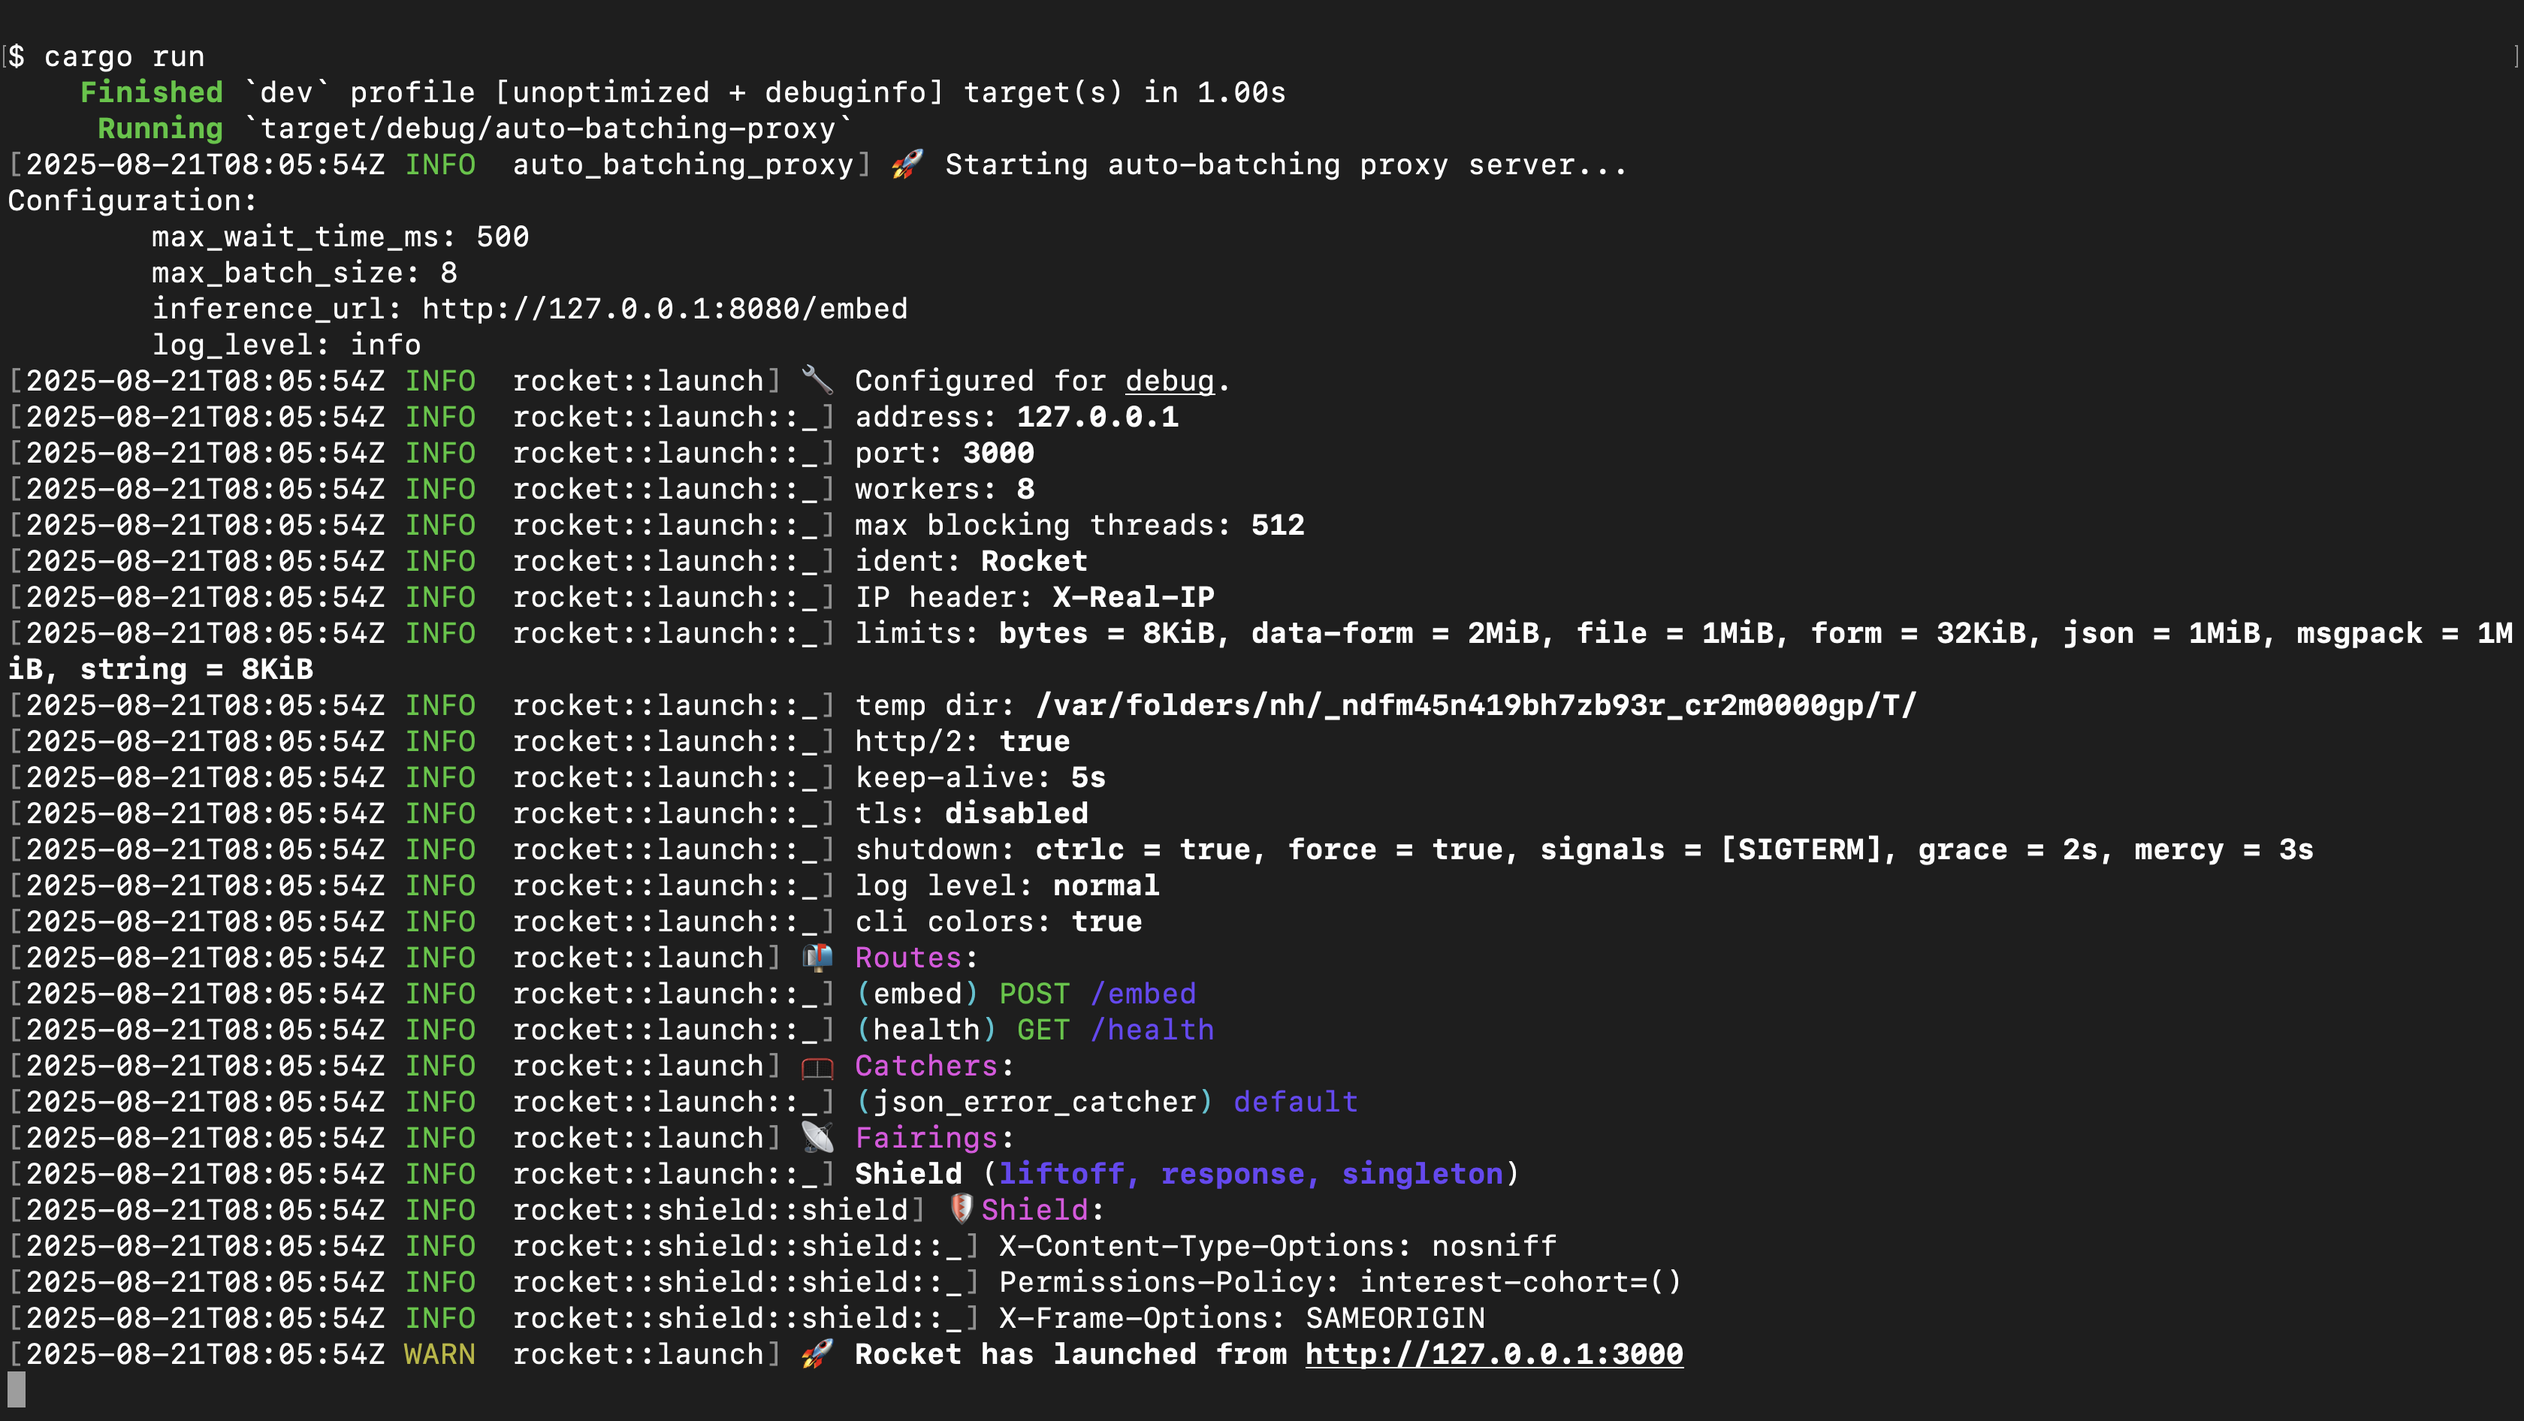
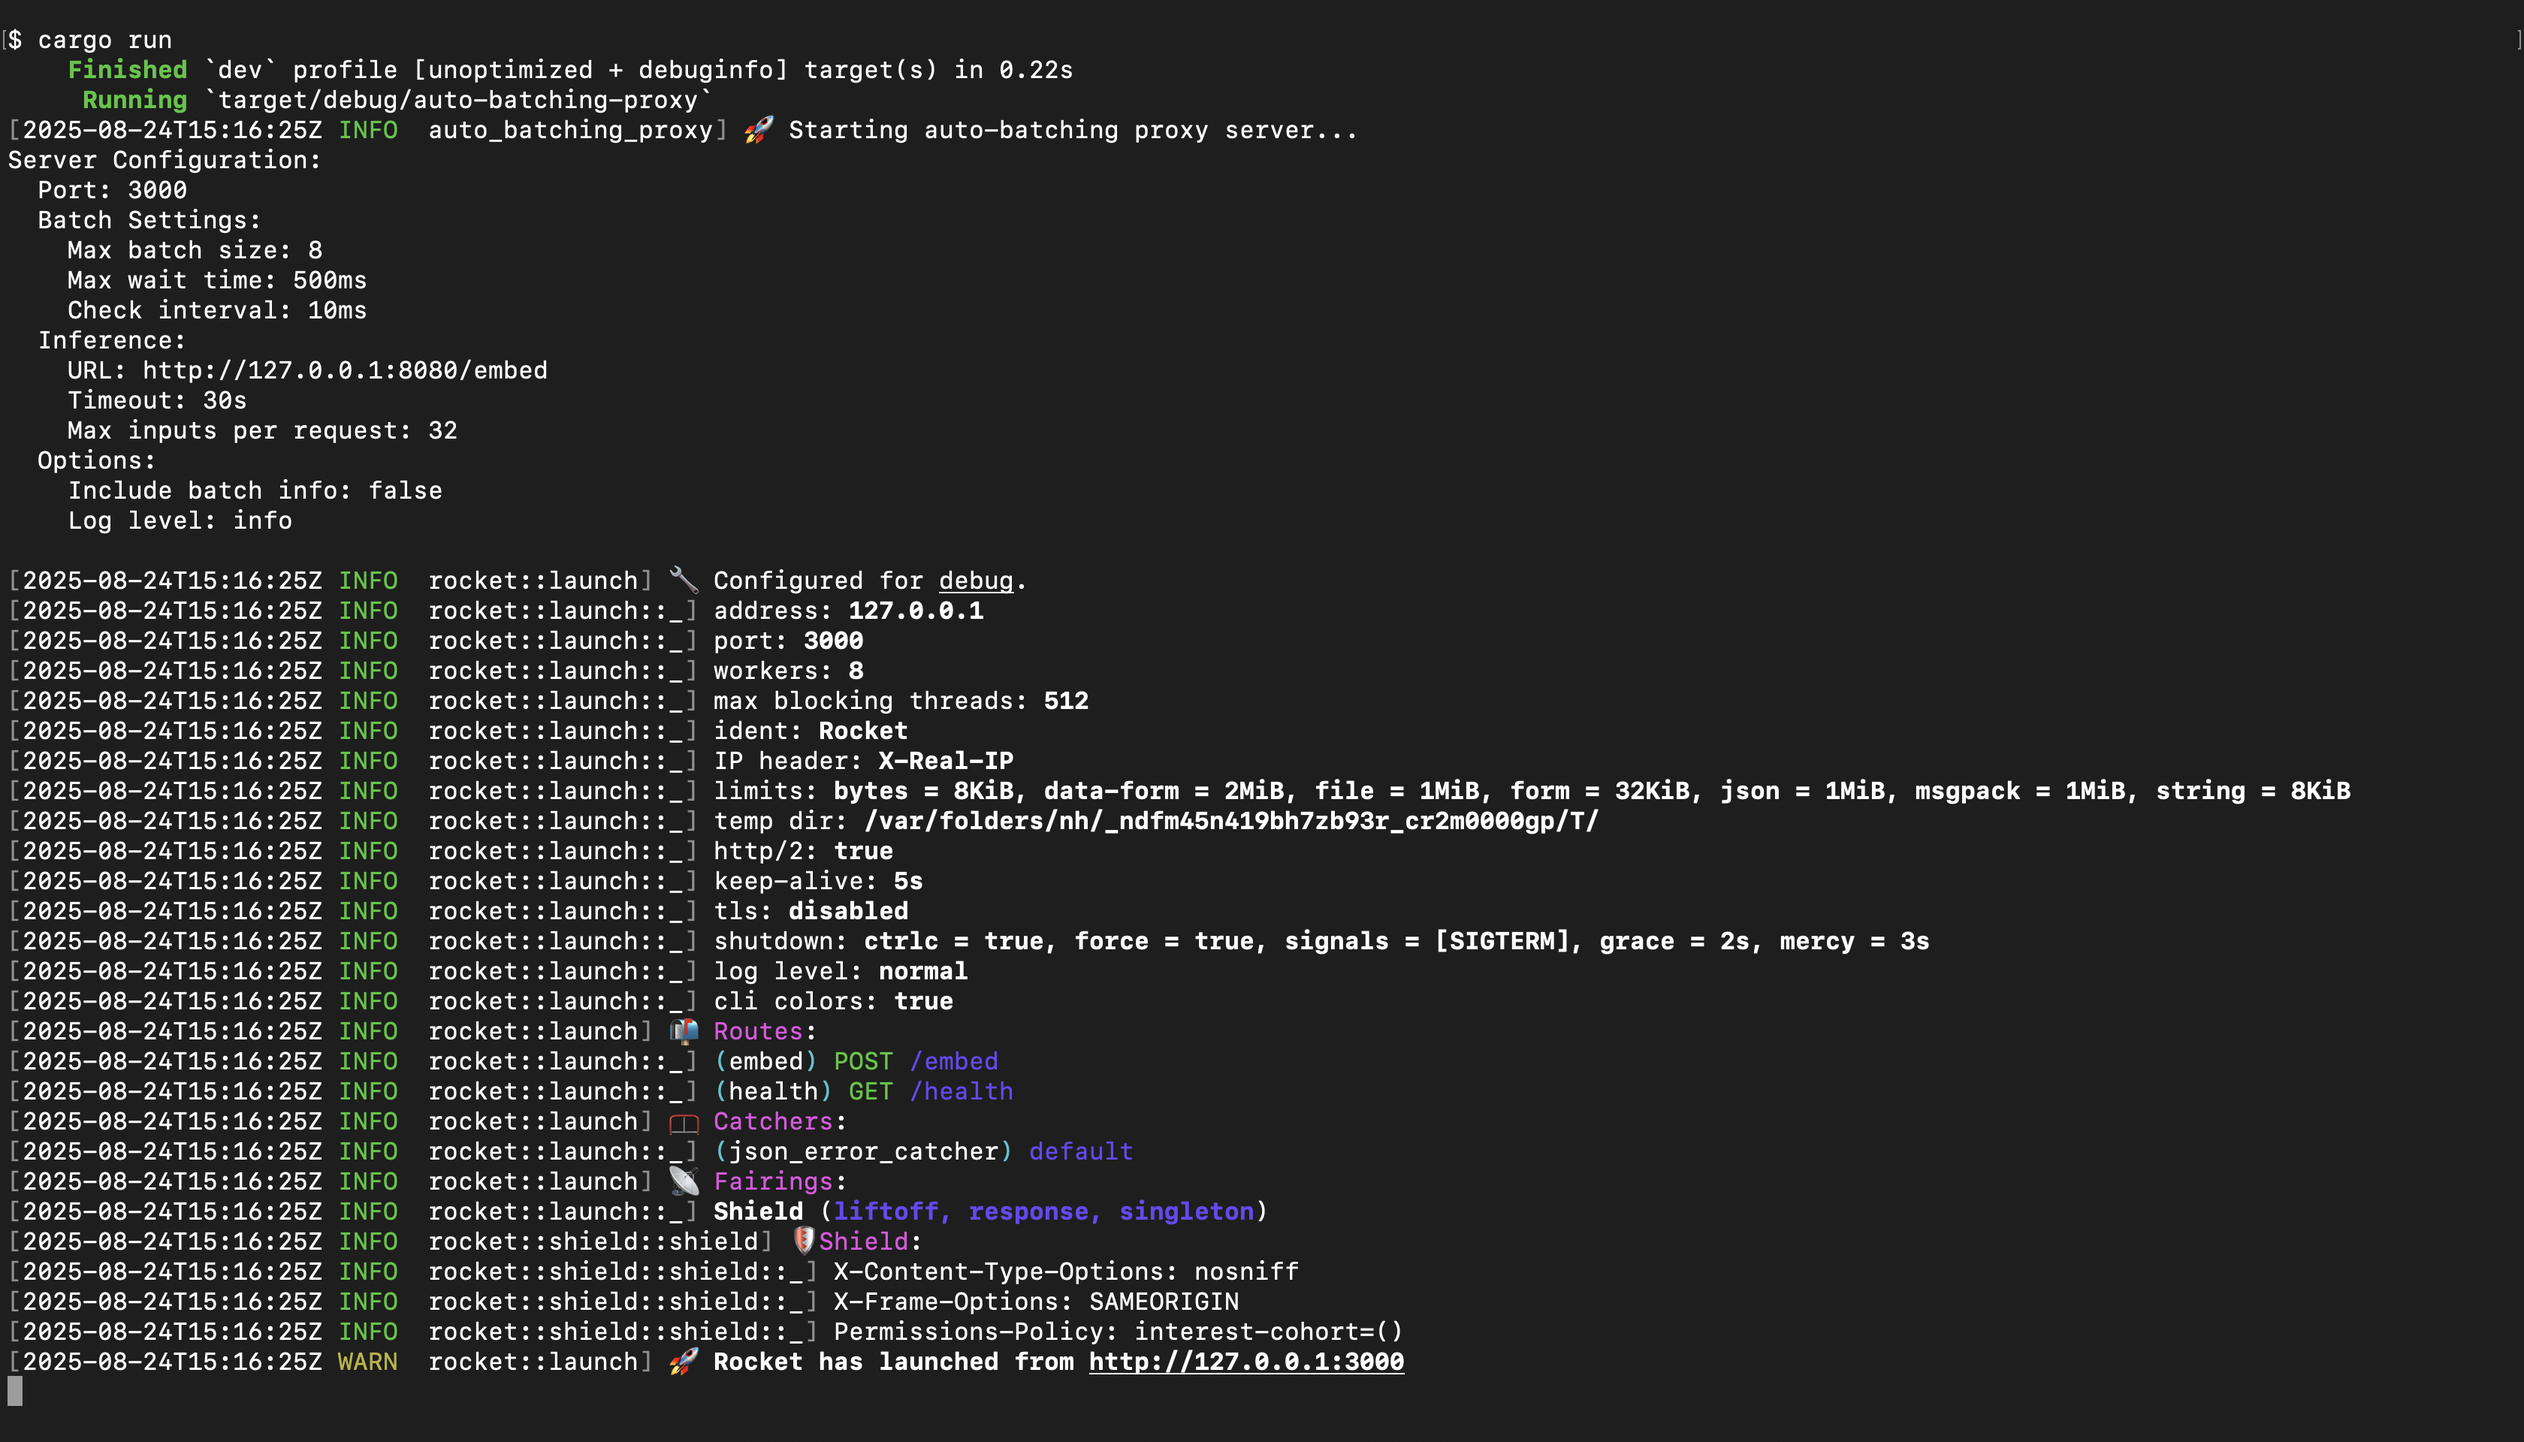
Update logs & screenshots

Changed region(s): [[0.0, 0.0312, 1.0, 0.9979], [0.2812, 0.1871, 0.3438, 0.2183], [0.5, 0.7484, 0.5312, 0.7796]]

diff --git a/src/config.rs b/src/config.rs
@@ -1,6 +1,7 @@
 use clap::Parser;
 use serde::{Deserialize, Serialize};
 use std::time::Duration;
+use rocket::log::LogLevel;
 
 #[derive(Parser, Debug)]
 #[command(author, version, about, long_about = None)]
@@ -37,6 +38,10 @@ pub struct Args {
     /// Maximum inputs per inference service call
     #[arg(long)]
     pub max_inference_inputs: Option<usize>,
+
+    /// Maximum inputs per inference service call
+    #[arg(long)]
+    pub log_level: Option<LogLevel>
 }
 
 #[derive(Debug, Clone, Deserialize, Serialize)]
@@ -99,6 +104,9 @@ impl AppConfig {
             if let Some(max_inference_inputs) = args.max_inference_inputs {
                 config.max_inference_inputs = max_inference_inputs;
             }
+            if let Some(log_level) = args.log_level {
+                config.log_level = log_level.to_string().to_lowercase();
+            }
         }
         config
     }
@@ -145,6 +153,7 @@ mod tests {
             inference_url: Some("http://custom:9090/embed".to_string()),
             inference_timeout_secs: Some(60),
             max_inference_inputs: None,
+            log_level: None,
         };
 
         let config = AppConfig::build(Some(args));
@@ -168,6 +177,7 @@ mod tests {
             inference_url: None,
             inference_timeout_secs: None,
             max_inference_inputs: None,
+            log_level: None,
         };
 
         let config = AppConfig::build(Some(partial_args));

diff --git a/src/main.rs b/src/main.rs
@@ -15,7 +15,7 @@ async fn rocket() -> Rocket<Build> {
     let _effective_log_level = config.init_logging();
 
     info!("🚀 Starting auto-batching proxy server...");
-    
+
     println!("Server Configuration:");
     println!("  Port: {}", config.port);
     println!("  Batch Settings:");
